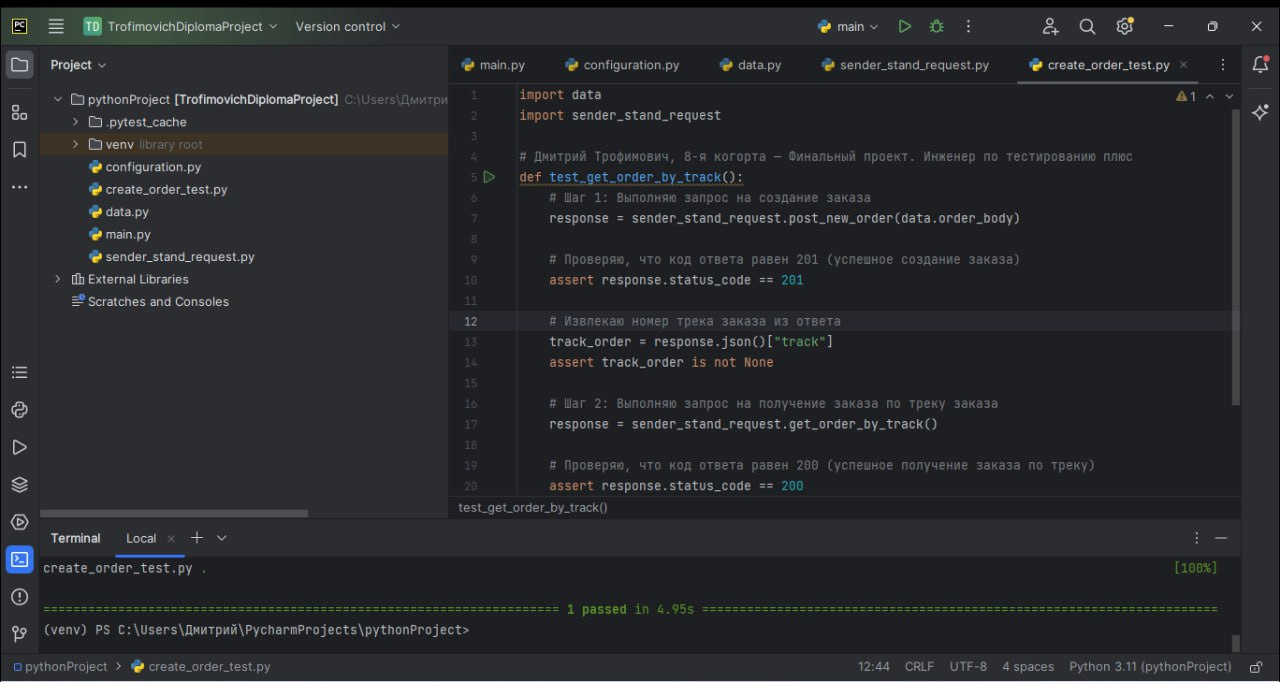
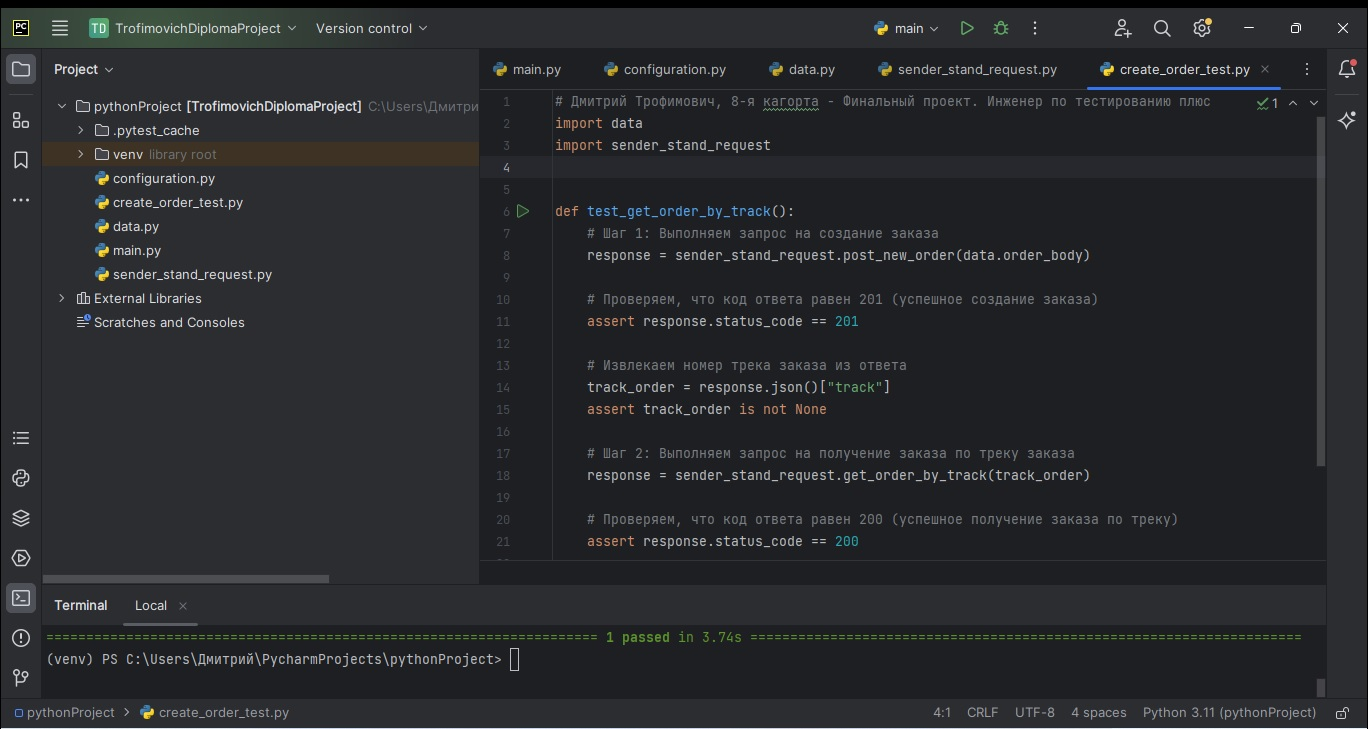
Были внесены следующие правки: удалил проверку-дубликат из функции post_new_order(body); удалил из функции get_order_by_track() создание заказа, а функцию изменил чтобы принимала аргументом трек-номер и подставляла его в запрос; и удалил из функции get_order_by_track() определение переменной new_hea

diff --git a/create_order_test.py b/create_order_test.py
@@ -1,21 +1,21 @@
+# Дмитрий Трофимович, 8-я кагорта - Финальный проект. Инженер по тестированию плюс
 import data
 import sender_stand_request
 
 
-# Дмитрий Трофимович, 8-я когорта — Финальный проект. Инженер по тестированию плюс
 def test_get_order_by_track():
-    # Шаг 1: Выполняю запрос на создание заказа
+    # Шаг 1: Выполняем запрос на создание заказа
     response = sender_stand_request.post_new_order(data.order_body)
 
-    # Проверяю, что код ответа равен 201 (успешное создание заказа)
+    # Проверяем, что код ответа равен 201 (успешное создание заказа)
     assert response.status_code == 201
 
-    # Извлекаю номер трека заказа из ответа
+    # Извлекаем номер трека заказа из ответа
     track_order = response.json()["track"]
     assert track_order is not None
 
-    # Шаг 2: Выполняю запрос на получение заказа по треку заказа
-    response = sender_stand_request.get_order_by_track()
+    # Шаг 2: Выполняем запрос на получение заказа по треку заказа
+    response = sender_stand_request.get_order_by_track(track_order)
 
-    # Проверяю, что код ответа равен 200 (успешное получение заказа по треку)
+    # Проверяем, что код ответа равен 200 (успешное получение заказа по треку)
     assert response.status_code == 200

diff --git a/sender_stand_request.py b/sender_stand_request.py
@@ -1,29 +1,16 @@
 import configuration
 import requests
-import data
 
 
 def post_new_order(body):
-    response = requests.post(
+    return requests.post(
         configuration.URL_SERVICE + configuration.CREATE_ORDER_PATH,
-        json=body,
-        headers=data.headers
+        json=body
     )
 
-    # Проверяю, что код ответа равен 201 (успешное создание заказа)
-    assert response.status_code == 201
 
-    return response  # Возвращаем объект ответа
-
-
-def get_order_by_track():
-    response = post_new_order(data.order_body)
-    track_order = str(response.json()["track"])  # Преобразую номер трека в строку
-    new_headers = data.headers.copy()
-    new_headers["track"] = track_order
-
-    # Выполняю GET-запрос для получения заказа по треку
+def get_order_by_track(track_order):
     response = requests.get(
-        configuration.URL_SERVICE + configuration.RECEIVE_ORDER_PATH + "?t=" + track_order)
-
+        configuration.URL_SERVICE + configuration.RECEIVE_ORDER_PATH + f"?t={track_order}"
+    )
     return response

diff --git a/configuration.py b/configuration.py
@@ -1,4 +1,3 @@
-URL_SERVICE = "https://f231ab26-862d-4be3-993f-6e32e1b77aee.serverhub.praktikum-services.ru"
-DOC_PATH = "/docs/"
+URL_SERVICE = "https://d4ea85c5-6115-4087-8299-e1fb0a1c5279.serverhub.praktikum-services.ru"
 CREATE_ORDER_PATH = "/api/v1/orders"
 RECEIVE_ORDER_PATH = "/api/v1/orders/track"
